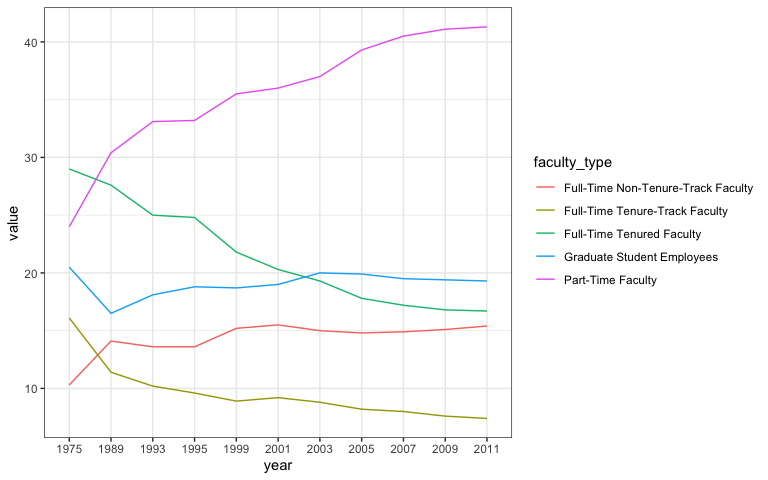
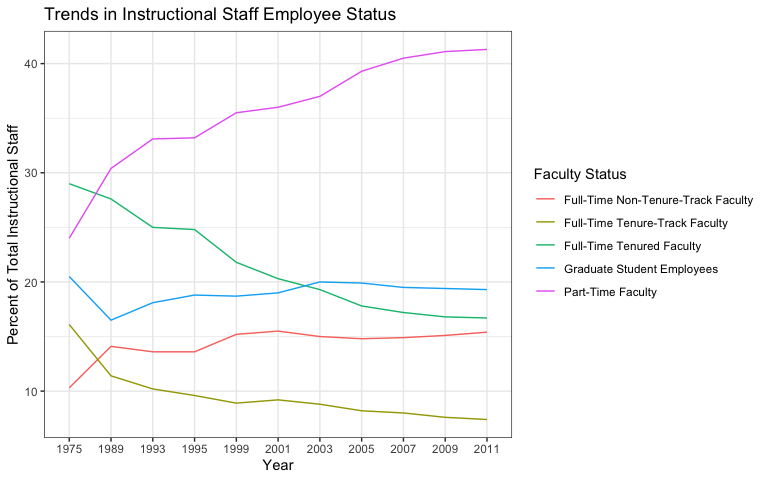
Fishes plot finished

diff --git a/lab-06.md b/lab-06.md
@@ -8,6 +8,7 @@ Benjamin Egan
 ``` r
 library(tidyverse) 
 library(dsbox)
+library(ggplot2)
 library(mosaicData) 
 ```
 
@@ -25,7 +26,7 @@ staff_long <- staff %>%
   mutate(value = as.numeric(value))
 ```
 
-### Exercise 2
+### Staff by Year Graph
 
 ``` r
 staff_long %>%
@@ -36,13 +37,79 @@ staff_long %>%
     color = faculty_type
   )) +
   geom_line()+
-  theme_bw()
+  theme_bw()+
+  labs(
+    x = "Year",
+    y = "Percent of Total Instructional Staff",
+    title = "Trends in Instructional Staff Employee Status",
+    color = "Faculty Status"
+  )
 ```
 
 ![](lab-06_files/figure-gfm/graph-1.png)<!-- -->
 
-### Exercise 3
+### Fisheries Graph
 
-…
+``` r
+fisheries <- read_csv("data/fisheries.csv")
+```
+
+    ## Rows: 216 Columns: 4
+    ## ── Column specification ────────────────────────────────────────────────────────
+    ## Delimiter: ","
+    ## chr (1): country
+    ## dbl (3): capture, aquaculture, total
+    ## 
+    ## ℹ Use `spec()` to retrieve the full column specification for this data.
+    ## ℹ Specify the column types or set `show_col_types = FALSE` to quiet this message.
+
+``` r
+view(fisheries)
+```
+
+Looking at this data set, we have four variables. Country, capture,
+aquaculture, and total. Based on their data, it’s clear that China leads
+aquaculture by a landslide. One way we could visualize this is by taking
+out China and individually reporting their statistics. It would help
+with the visual. If we wanted to keep this in, I would create two
+graphs, one for capture and one for aquaculture.
+
+``` r
+top_10 <- fisheries %>%
+  arrange(desc(total)) %>%
+    slice(1:10) 
+
+fisheries %>% ggplot(aes(
+  x = fct_reorder(country, total),
+  y = total
+)) +
+  geom_bar(stat = "identity")+
+  coord_flip()+
+  labs(
+    x = "Country",
+    y = "Frequency",
+    title = "Tonnage of Fish captured"
+  )
+```
+
+![](lab-06_files/figure-gfm/visual%20for%20fisheries-1.png)<!-- -->
+
+``` r
+top_10 %>% ggplot(aes(
+  x = fct_reorder(country, total),
+  y = total
+)) +
+  geom_bar(stat = "identity", aes(y = aquaculture), alpha = .6, fill = "salmon")+
+  geom_bar(stat = "identity", alpha = .6, fill = NA, color = "Black")+
+  coord_flip()+
+  labs(
+    x = "Country",
+    y = "Frequency",
+    title = "Tonnage of Fish captured",
+    subtitle = "purple indicates the proportion farmed via aquaculture"
+  ) 
+```
+
+![](lab-06_files/figure-gfm/visual%20for%20fisheries-2.png)<!-- -->
 
 Add exercise headings as needed.
